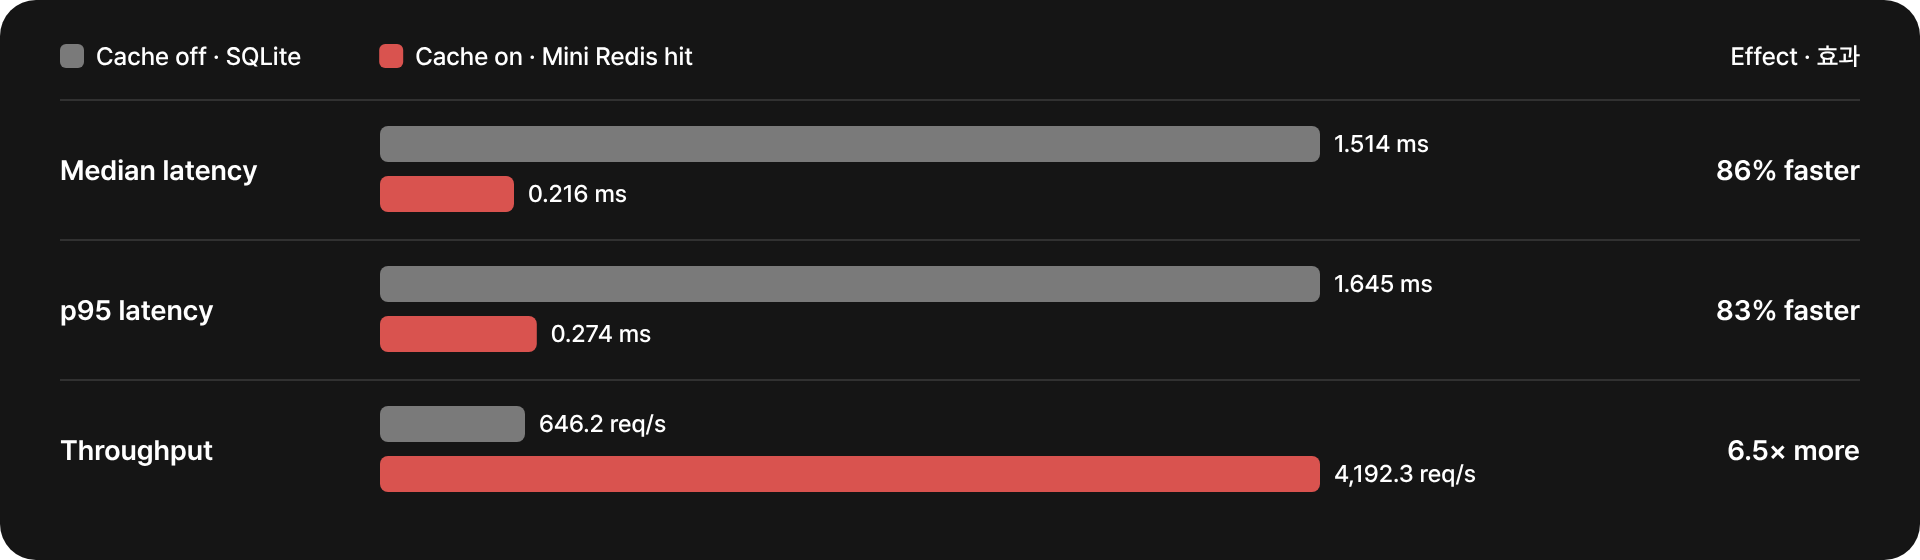
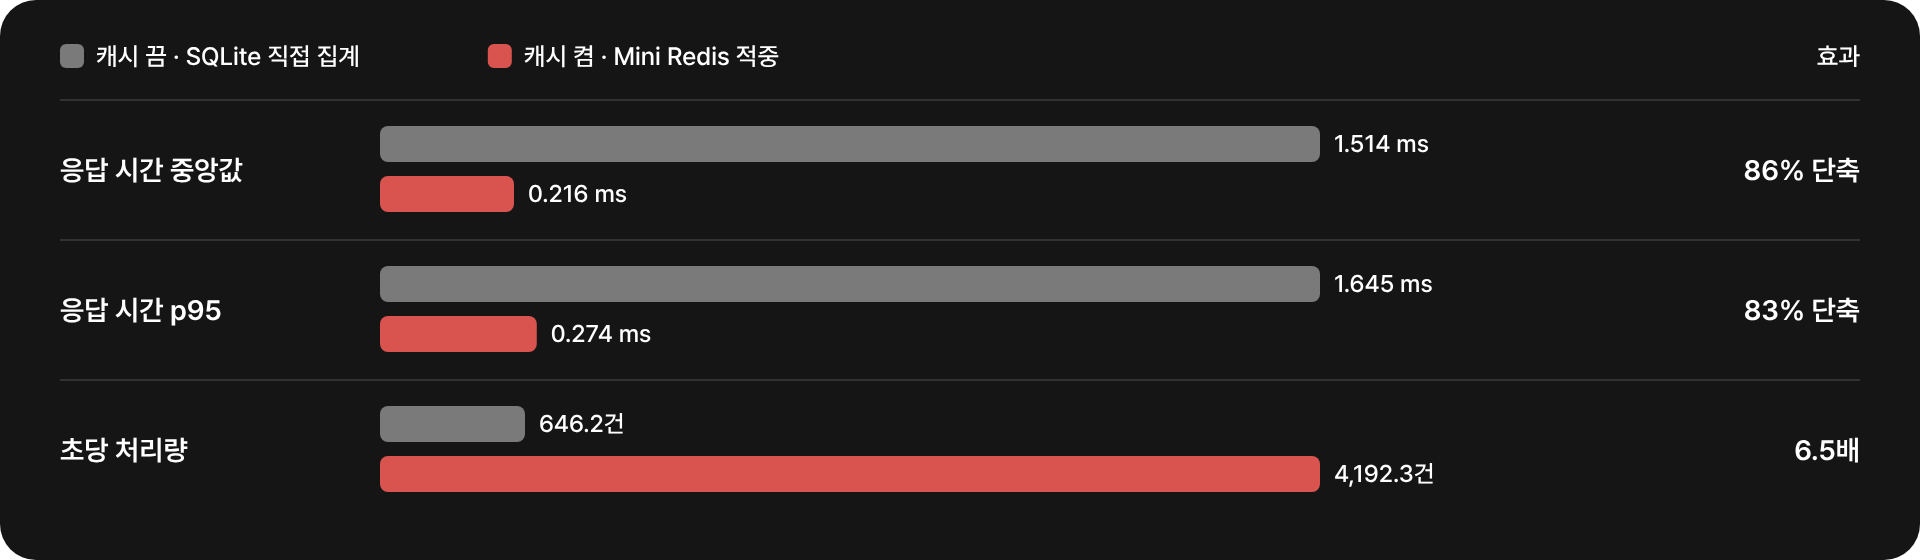
README 한국어 설명과 구조·벤치마크 도해 갱신

diff --git a/readme.md b/readme.md
@@ -8,7 +8,7 @@
 
 ### Python 표준 라이브러리로 만든 단일 노드 Redis
 
-**Many connections, one line of execution. Log first, expire lazily.**
+**연결은 여러 개, 실행은 한 줄로. 기록은 먼저, 만료는 접근할 때와 0.1초마다.**
 
 ![Python 3.9+](https://img.shields.io/badge/Python-3.9+-3776AB?logo=python&logoColor=white)
 ![dependencies](https://img.shields.io/badge/dependencies-0-2ea44f)
@@ -28,10 +28,10 @@
 
 ## Quick Start
 
-Python 3.9+, 외부 패키지 없음.
+Python 3.9 이상, 외부 패키지 없음.
 
 ```sh
-python3 -m miniredis                  # 127.0.0.1:6379, ./appendonlydir/에 저장
+python3 -m miniredis                  # 127.0.0.1:6379에서 실행, 현재 폴더에 RDB · AOF 저장
 ```
 
 ```sh
@@ -41,163 +41,160 @@ redis-cli HSET user:42 city Seoul     # (integer) 1
 redis-cli TTL visits                  # (integer) 60
 ```
 
-Memory only: `python3 -m miniredis -addr 127.0.0.1:6380 -aof ''`
+메모리 전용으로 실행: `python3 -m miniredis -addr 127.0.0.1:6380 -aof ''`
 
 <br />
 
 ## Design Goals
 
-| Goal | Solution | Code |
+| 과제 | 해결 | 코드 |
 | --- | --- | --- |
-| **Concurrency** | Single thread. `asyncio` event loop 1개 + `await` 없는 `execute` → 명령이 섞이지 않아 lock 불필요 | [server.py](miniredis/server.py) · [engine.py](miniredis/engine.py) |
-| **Expired keys** | On access: 읽을 때 검사 후 삭제 · Every 0.1s: 20개씩 이어서 검사 | [engine.py](miniredis/engine.py) |
-| **API** | Redis와 같은 RESP2 over TCP → `redis-cli` 그대로 사용. HTTP cache 예제 포함 | [resp.py](miniredis/resp.py) · [examples/](examples) |
-| **Invalidation** | `DEL` · `EXPIRE` · `SET` 덮어쓰기. 모두 AOF에 남아 재시작 후에도 유지 | [engine.py](miniredis/engine.py) |
-| **Crash safety** | AOF first, memory second. base RDB + incr AOF + manifest로 복구 | [persist.py](miniredis/persist.py) |
+| **동시성** | 싱글 스레드. 이벤트 루프 1개 + `await` 없는 `execute` → 명령이 섞이지 않아 락 불필요 | [server.py](miniredis/server.py) · [engine.py](miniredis/engine.py) |
+| **만료된 값** | 접근할 때 검사해 삭제 + 0.1초마다 20개씩 이어서 정리 | [engine.py](miniredis/engine.py) |
+| **외부 API** | Redis와 같은 RESP2 프로토콜 → `redis-cli` 그대로 사용. HTTP 캐시 예제 포함 | [resp.py](miniredis/resp.py) · [examples/](examples) |
+| **무효화** | `DEL` · `EXPIRE` · `SET` 덮어쓰기. 모두 AOF에 기록돼 재시작 후에도 유지 | [engine.py](miniredis/engine.py) |
+| **서버 다운 대비** | AOF에 먼저 기록 → 메모리 반영. 재시작하면 RDB 스냅샷 + AOF 기록으로 복구 | [persist.py](miniredis/persist.py) |
 
 <br />
 
 ## Client Side
 
-### Request Flow
+### 요청 흐름
 
-![Client → Read → Execute → Reply](assets/how-it-works.png)
+![Client → 읽기 → 실행 → 응답](assets/how-it-works.png)
 
-1. **Read** — 연결마다 RESP2 명령을 하나씩 읽음. 기다리는 동안 다른 연결 처리
-2. **Execute** — 명령 하나를 끝까지 실행. 쓰기는 AOF에 먼저 기록 후 메모리 반영
-3. **Reply** — RESP2로 응답. pipeline은 보낸 순서대로
+1. **읽기** — 연결마다 RESP2 명령을 하나씩 읽음. 기다리는 동안 다른 연결 처리
+2. **실행** — 명령 하나를 끝까지 실행. 쓰기는 AOF에 먼저 기록한 뒤 메모리 반영
+3. **응답** — RESP2로 돌려줌. 파이프라인은 보낸 순서대로
 
-### Commands
+### 지원 명령
 
-| Type | Commands |
+| 종류 | 명령 |
 | --- | --- |
-| String | `SET` (`EX`, `NX`) · `GET` · `INCR` · `MSET` · `MGET` |
-| Hash | `HSET` · `HGET` |
-| Key | `DEL` · `EXISTS` · `TYPE` · `EXPIRE` · `TTL` |
-| Server | `PING` · `BGREWRITEAOF` |
+| 문자열 | `SET` (`EX`, `NX`) · `GET` · `INCR` · `MSET` · `MGET` |
+| 해시 | `HSET` · `HGET` |
+| 키 | `DEL` · `EXISTS` · `TYPE` · `EXPIRE` · `TTL` |
+| 서버 | `PING` · `BGREWRITEAOF` |
 
-### Use as an API — Cache Example
+### API로 쓰기 — 캐시 예제
 
-SQLite 주문 8만 건 집계를 Mini Redis에 캐시하는 HTTP API.
+SQLite 주문 8만 건의 집계 결과를 Mini Redis에 캐시하는 HTTP API.
 
 ```sh
 python3 -m examples.cache_api --db orders.sqlite3 --cache on --ttl 30
-curl -i http://127.0.0.1:8080/reports/1    # X-Cache: MISS → SQLite 집계 후 SET ... EX 30
-curl -i http://127.0.0.1:8080/reports/1    # X-Cache: HIT  → Mini Redis에서 응답
+curl -i http://127.0.0.1:8080/reports/1    # X-Cache: MISS → SQLite에서 집계 후 SET ... EX 30
+curl -i http://127.0.0.1:8080/reports/1    # X-Cache: HIT  → Mini Redis에서 바로 응답
 ```
 
-DB가 바뀌면 `DEL`로 바로 무효화. Mini Redis가 꺼져 있으면 `X-Cache: UNAVAILABLE`로 SQLite 결과 반환.
+DB가 바뀌면 `DEL`로 바로 무효화. Mini Redis가 꺼져 있으면 `X-Cache: UNAVAILABLE`과 함께 SQLite 결과를 돌려줌.
 
 <br />
 
 ## Engine Side
 
-### Architecture
+### 전체 구조
 
-![mini-redis: Access, Execute, Persist layers and a 0.1s background loop](assets/layers.png)
+![mini-redis: 접근 · 실행 · 보존 세 레이어와 0.1초 백그라운드 루프](assets/layers.png)
 
-| Layer | Role |
+| 레이어 | 역할 |
 | --- | --- |
-| ① Access | TCP 연결 · RESP2 읽기/쓰기 |
-| ② Execute | 명령 검사 · keyspace 읽기/쓰기 · 만료 판정 |
-| ③ Persist | AOF 기록 · RDB snapshot · 시작 시 복구 |
-| Every 0.1s | 만료 정리 · fsync · rewrite 조각 쓰기 |
+| ① 접근 | TCP 연결 · RESP2 읽기/쓰기 |
+| ② 실행 | 명령 검사 · 키 공간 읽기/쓰기 · 만료 판정 |
+| ③ 보존 | AOF 기록 · RDB 스냅샷 · 시작할 때 복구 |
+| 0.1초 루프 | 만료 키 정리 · AOF fsync · rewrite 이어 쓰기 |
 
-### Concurrency — Single Thread
+### 동시성 — 싱글 스레드
 
-![Connections A, B, C meet in one event loop and run one at a time](assets/single-thread.png)
+![연결 A·B·C가 이벤트 루프 하나로 모여 한 번에 하나씩 실행](assets/single-thread.png)
 
-연결은 여러 개, 실행은 한 줄. `await`는 socket I/O에만 있고 `execute`는 동기 함수라 **명령 단위로 atomic**. `INCR`을 동시에 보내도 값이 꼬이지 않음. 실제 Redis도 명령 실행은 thread 하나.
+연결은 여러 개, 실행은 한 줄. `await`는 소켓을 기다릴 때만 있고 `execute`는 동기 함수라 **명령 단위로 원자적**. `INCR`을 동시에 보내도 값이 꼬이지 않음. 실제 Redis도 명령 실행은 스레드 하나.
 
-### Keyspace — HashTable
+### 키 공간 — HashTable
 
-![hash(key) picks a bucket; collisions chain in the same bucket; grows ×2 over 3/4 full](assets/hashtable.png)
+![hash(key)로 버킷을 정하고, 충돌하면 같은 버킷에 연결, 3/4 넘게 차면 버킷 2배](assets/hashtable.png)
 
-직접 구현한 [`HashTable`](miniredis/hashtable.py). 충돌은 같은 bucket에 `next`로 연결(chaining), 3/4 넘게 차면 bucket 2배. hash의 field는 Python `dict` 사용.
+직접 구현한 [`HashTable`](miniredis/hashtable.py). 충돌하면 같은 버킷에 `next`로 연결(chaining)하고, 3/4 넘게 차면 버킷 수를 2배로 늘림. 해시 타입의 필드는 Python `dict` 사용.
 
-### Expiration
+### 만료
 
-![On access check, and a 0.1s loop that checks 20 keys per run](assets/expiry.png)
+![접근 시 검사, 0.1초 루프가 20개씩 이어서 검사](assets/expiry.png)
 
-- **On access** — 읽을 때 만료됐으면 지우고 nil
-- **Every 0.1s** — 앞에서 20개씩 검사, 살아 있는 키는 뒤로 보내 다음 루프가 이어서 검사
+- **접근 시 검사** — 읽을 때 만료됐으면 지우고 nil
+- **0.1초 루프** — 앞에서 20개씩 검사, 살아 있는 키는 뒤로 보내 다음 루프가 이어서 검사
 
-### Invalidation
+### 무효화
 
-| Command | Effect | AOF |
+| 명령 | 동작 | AOF 기록 |
 | --- | --- | --- |
 | `DEL k` | 즉시 삭제 | `DEL k` (있던 키만) |
-| `EXPIRE k s` | 기한 예약, 0 이하면 즉시 삭제 | `PEXPIREAT k <ms>` |
+| `EXPIRE k s` | 만료 시각 예약, 0 이하면 즉시 삭제 | `PEXPIREAT k <ms>` |
 | `SET k v` | 새 값으로 교체, TTL 해제 | `SET k v [PXAT <ms>]` |
 
-### Persistence
+### 영속화
 
-![Write: append to AOF, apply, reply. Restart: manifest, base.rdb + incr.aof replay](assets/persistence.png)
+![쓰기: AOF 기록 → 메모리 반영 → +OK. 재시작: RDB 스냅샷 + AOF 기록을 재생해 메모리 복구](assets/persistence.png)
 
-Redis 7과 같은 `appendonlydir/` 구조.
+- **AOF 기록** — 쓰기 명령을 순서대로 이어 쓴 파일
+- **RDB 스냅샷** — 어느 시점의 전체 데이터
 
-- **manifest** — 지금 읽을 파일 목록
-- **base.rdb** — 한 시점의 snapshot
-- **incr.aof** — snapshot 이후 쓰기 기록
+재시작하면 RDB 스냅샷을 읽고 그 이후의 AOF 기록을 재생해 복구. AOF가 커지면 rewrite로 현재 데이터를 새 RDB 스냅샷으로 압축. rewrite 도중에 꺼져도 이전 파일로 복구됨. 파일 형식은 실제 Redis 7과 같음.
 
-rewrite 중에 꺼져도 manifest가 이전 파일을 가리켜 안전.
-
-| `-appendfsync` | fsync | On power loss |
+| `-appendfsync` | 디스크 동기화 | 전원이 꺼지면 |
 | --- | --- | --- |
 | `always` | 응답 전 매번 | 손실 없음 |
-| `everysec` (default) | 약 1초마다 | 최대 약 1초 |
-| `no` | OS에 맡김 | OS에 따라 |
+| `everysec` (기본값) | 약 1초마다 | 최대 약 1초 손실 |
+| `no` | OS에 맡김 | OS에 따라 다름 |
 
 <br />
 
 ## Benchmark
 
-![Cache 6.5×, 63k+ ops/s up to 256 connections, 0 lost updates, 85% speed with AOF, 9.1× faster restart](assets/bench-summary.png)
+![캐시 6.5배, 연결 256개까지 63k+ ops/s, 값 손실 0, AOF 켜도 속도 85% 유지, 재시작 9.1배 단축](assets/bench-summary.png)
 
-<sub>All results · commit `c87d673` · Mac mini Linux VM (aarch64, 4 cores) · Python 3.10.12 · pipeline 없이 응답을 받은 뒤 다음 요청</sub>
+<sub>모든 결과 · commit `c87d673` · Mac mini Linux VM (aarch64, 4코어) · Python 3.10.12 · 파이프라인 없이 응답을 받은 뒤 다음 요청</sub>
 
-### Cache On vs Off
+### 캐시 사용 전후
 
-![Cache on: median latency 86% faster, 6.5× throughput](assets/bench-cache.png)
+![캐시를 켜면 응답 시간 중앙값 86% 단축, 처리량 6.5배](assets/bench-cache.png)
 
 주문 8만 건, 보고서 8개를 순환 요청. 캐시 적중 시 응답 시간 중앙값 86% 감소, 처리량 6.5배.
 
-### Concurrent Connections
+### 동시 연결
 
-![Throughput by connection count and an INCR atomicity check](assets/bench-concurrency.png)
+![동시 연결 수별 처리량과 INCR 원자성 검사](assets/bench-concurrency.png)
 
 연결 16개부터 63.6k~69.1k ops/s로 포화되고 256개까지 떨어지지 않음. 늘어나는 건 대기 시간(p99)뿐. 256개 연결이 같은 키에 `INCR` 102,400번을 동시에 보내도 결과는 정확히 102,400.
 
-### Durability Cost
+### 영속화 비용
 
-![Memory only vs AOF everysec vs AOF always](assets/bench-durability.png)
+![메모리 전용 vs AOF everysec vs AOF always](assets/bench-durability.png)
 
-기본값 `everysec`는 메모리 전용 처리량의 85% 유지. `always`는 쓰기마다 fsync라 11%.
+기본값 `everysec`는 메모리 전용 처리량의 85% 유지. `always`는 쓰기마다 디스크 동기화를 해서 11%.
 
-### Restart After Rewrite
+### rewrite 후 재시작
 
-![AOF size and restart time before and after rewrite](assets/bench-recovery.png)
+![rewrite 전후 디스크 파일 크기와 재시작 시간](assets/bench-recovery.png)
 
-같은 키 20,000개를 10번씩 덮어쓴 SET 200,000건. rewrite 후 AOF 93% 감소, 재시작 9.1배 빠름.
+같은 키 20,000개를 10번씩 덮어쓴 SET 200,000건. rewrite로 RDB 스냅샷을 만들면 파일 크기 93% 감소, 재시작 9.1배 빠름.
 
 ```sh
 python3 -m benchmarks.cache_api --requests 800 --rounds 6
 python3 -m benchmarks.server
 ```
 
-<sub>[cache result JSON](benchmarks/results/2026-11-18-cache-api.json) · [server result JSON](benchmarks/results/2026-11-18-server.json) · [cache code](benchmarks/cache_api.py) · [server code](benchmarks/server.py)</sub>
+<sub>[캐시 결과 JSON](benchmarks/results/2026-11-18-cache-api.json) · [서버 결과 JSON](benchmarks/results/2026-11-18-server.json) · [캐시 측정 코드](benchmarks/cache_api.py) · [서버 측정 코드](benchmarks/server.py)</sub>
 
 <details>
-<summary>Raw numbers</summary>
+<summary>자세한 수치</summary>
 
 <br />
 
-| Cache | Requests | Median | p95 | Throughput |
+| 캐시 | 요청 수 | 중앙값 | p95 | 초당 처리량 |
 | --- | ---: | ---: | ---: | ---: |
-| off · SQLite | 4,800 | 1.514 ms | 1.645 ms | 646.2 req/s |
-| on · Mini Redis hit | 4,800 | 0.216 ms | 0.274 ms | 4,192.3 req/s |
+| 끔 · SQLite 직접 집계 | 4,800 | 1.514 ms | 1.645 ms | 646.2건 |
+| 켬 · Mini Redis 적중 | 4,800 | 0.216 ms | 0.274 ms | 4,192.3건 |
 
-| Connections | ops/s | p50 | p99 |
+| 동시 연결 | ops/s | p50 | p99 |
 | ---: | ---: | ---: | ---: |
 | 1 | 18,645 | 0.051 ms | 0.067 ms |
 | 4 | 52,205 | 0.073 ms | 0.088 ms |
@@ -205,35 +202,35 @@ python3 -m benchmarks.server
 | 64 | 64,870 | 0.985 ms | 1.074 ms |
 | 256 | 69,135 | 3.703 ms | 4.099 ms |
 
-| AOF policy | ops/s | p50 | p99 |
+| AOF 정책 | ops/s | p50 | p99 |
 | --- | ---: | ---: | ---: |
-| memory only | 50,564 | 1.263 ms | 1.395 ms |
+| 메모리 전용 | 50,564 | 1.263 ms | 1.395 ms |
 | everysec | 43,102 | 1.474 ms | 1.608 ms |
 | always | 5,513 | 11.573 ms | 16.101 ms |
 
-| Rewrite | AOF size | Restart |
+| rewrite | 디스크 파일 크기 | 재시작 시간 |
 | --- | ---: | ---: |
-| before | 13,289,008 B | 824 ms |
-| after | 868,998 B | 90 ms |
+| 전 · AOF 기록만 | 13,289,008 B | 824 ms |
+| 후 · RDB 스냅샷 | 868,998 B | 90 ms |
 
-<sub>median of 3 rounds × 3 s · 10,000 keys · 32 B values · SET/GET 50:50 (연결 수 테스트) · SET only, 64 connections (AOF 테스트)</sub>
+<sub>3라운드 × 3초 중앙값 · 키 10,000개 · 값 32 B · 연결 수 테스트는 SET/GET 반반 · AOF 테스트는 SET만, 연결 64개</sub>
 
 </details>
 
 <details>
-<summary>Hash fields: dict vs custom HashTable</summary>
+<summary>해시 필드 저장소: dict vs 직접 만든 HashTable</summary>
 
 <br />
 
-field 저장소를 `dict`(`9f67b74`)와 `HashTable`(`de7f275`)로 비교. 결과에 따라 `dict` 선택.
+필드 저장소를 `dict`(`9f67b74`)와 `HashTable`(`de7f275`)로 비교. 결과에 따라 `dict` 선택.
 
-| Command (per op) | dict | HashTable |
+| 명령 (1회당) | dict | HashTable |
 | --- | ---: | ---: |
-| `HSET` new field | **1.518 µs** | 2.842 µs |
-| `HSET` update | **1.505 µs** | 2.096 µs |
-| `HGET` hit | **1.104 µs** | 1.392 µs |
+| `HSET` 새 필드 | **1.518 µs** | 2.842 µs |
+| `HSET` 기존 필드 | **1.505 µs** | 2.096 µs |
+| `HGET` 있는 필드 | **1.104 µs** | 1.392 µs |
 
-<sub>1,024 keys × 16 fields · Apple M4 · macOS 15.3.2 · CPython 3.9.6 · median of 8 rounds · [result JSON](benchmarks/results/hash-fields-m4-python39.json) · [code](benchmarks/hash_fields.py)</sub>
+<sub>키 1,024개 × 필드 16개 · Apple M4 · macOS 15.3.2 · CPython 3.9.6 · 8라운드 중앙값 · [결과 JSON](benchmarks/results/hash-fields-m4-python39.json) · [측정 코드](benchmarks/hash_fields.py)</sub>
 
 </details>
 
@@ -241,13 +238,13 @@ field 저장소를 `dict`(`9f67b74`)와 `HashTable`(`de7f275`)로 비교. 결과
 
 ## FAQ
 
-**Why not multi-thread?**<br />
-명령 하나는 몇 µs라 병목은 CPU가 아니라 network I/O. I/O는 event loop로 겹치고 실행은 한 줄로 세워 lock과 race condition을 없앰.
+**왜 멀티 스레드가 아닌가요?**<br />
+명령 하나는 몇 µs라 병목은 CPU가 아니라 네트워크 I/O. I/O는 이벤트 루프로 겹치고 실행은 한 줄로 세워 락과 경쟁 조건을 없앰.
 
-**Trade-off?**<br />
-CPU core 하나만 사용. `HashTable` resize나 RDB snapshot 복사 중에는 다른 연결도 잠시 대기.
+**대신 포기한 것은?**<br />
+CPU 코어 하나만 사용. `HashTable` 확장이나 RDB 스냅샷을 만드는 동안 다른 연결도 잠시 대기.
 
-**What if the process dies?**<br />
+**프로세스가 죽으면?**<br />
 AOF 기록은 응답 전에 OS로 넘어가 있어 남음. 기기 전원이 꺼질 때만 `everysec` 기준 마지막 약 1초 손실 가능.
 
-[Docs: 실행 흐름 · HashTable · 복구](docs/guide.md)
+[자세한 문서: 실행 흐름 · HashTable · 복구](docs/guide.md)
